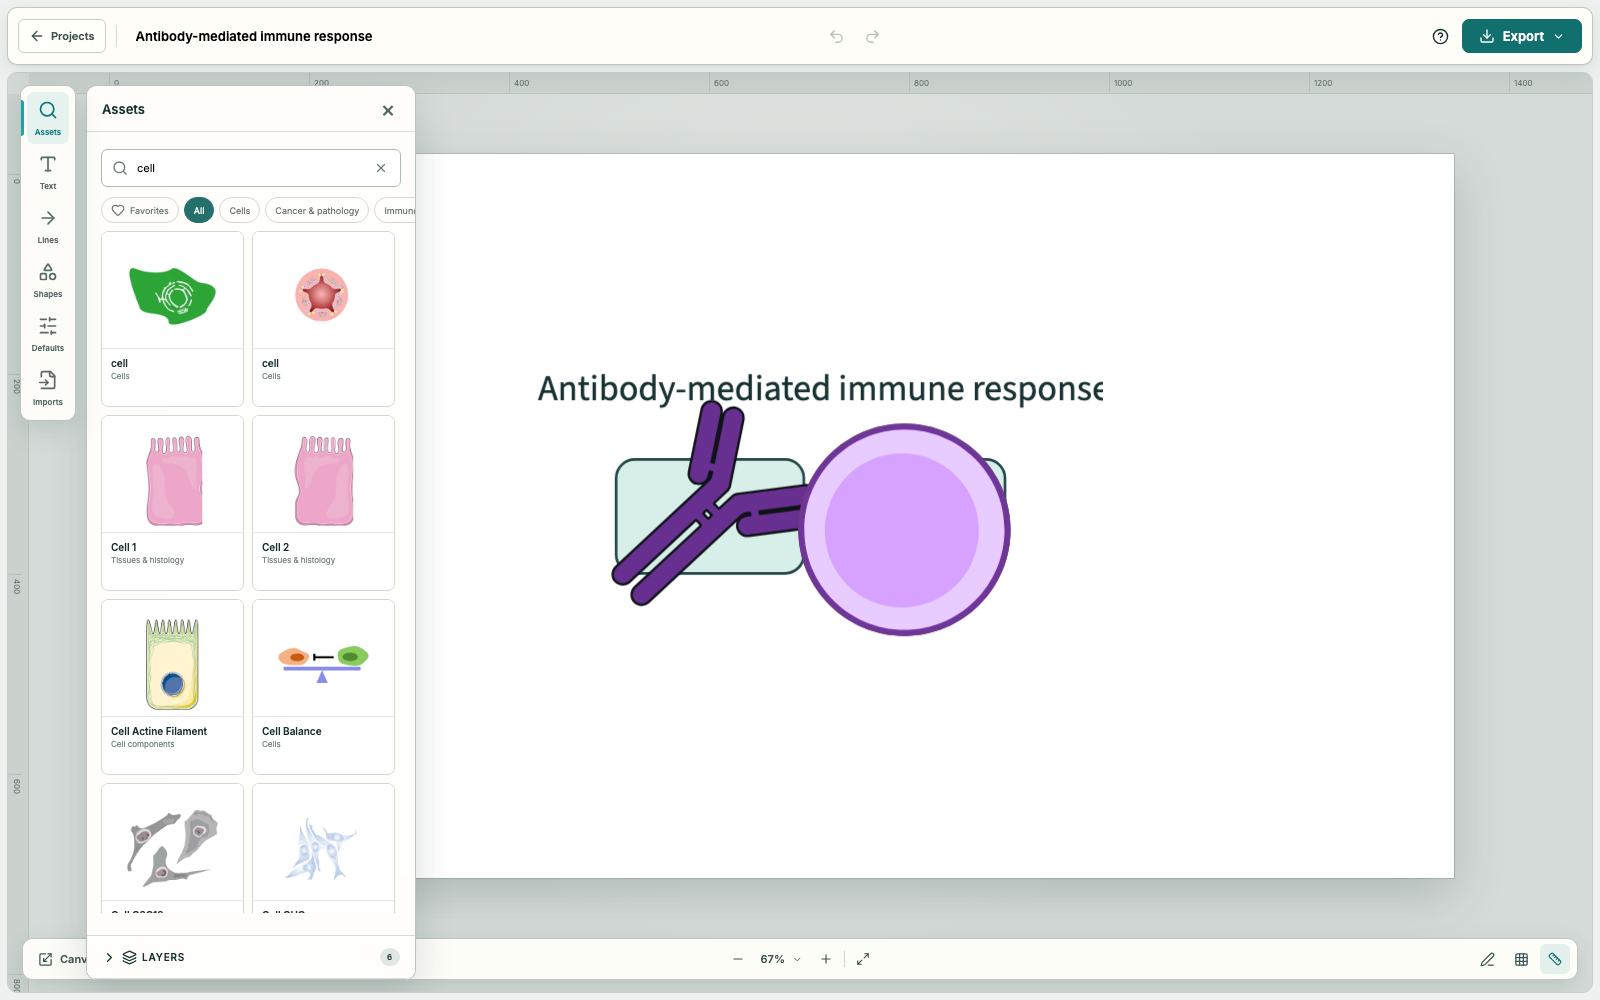
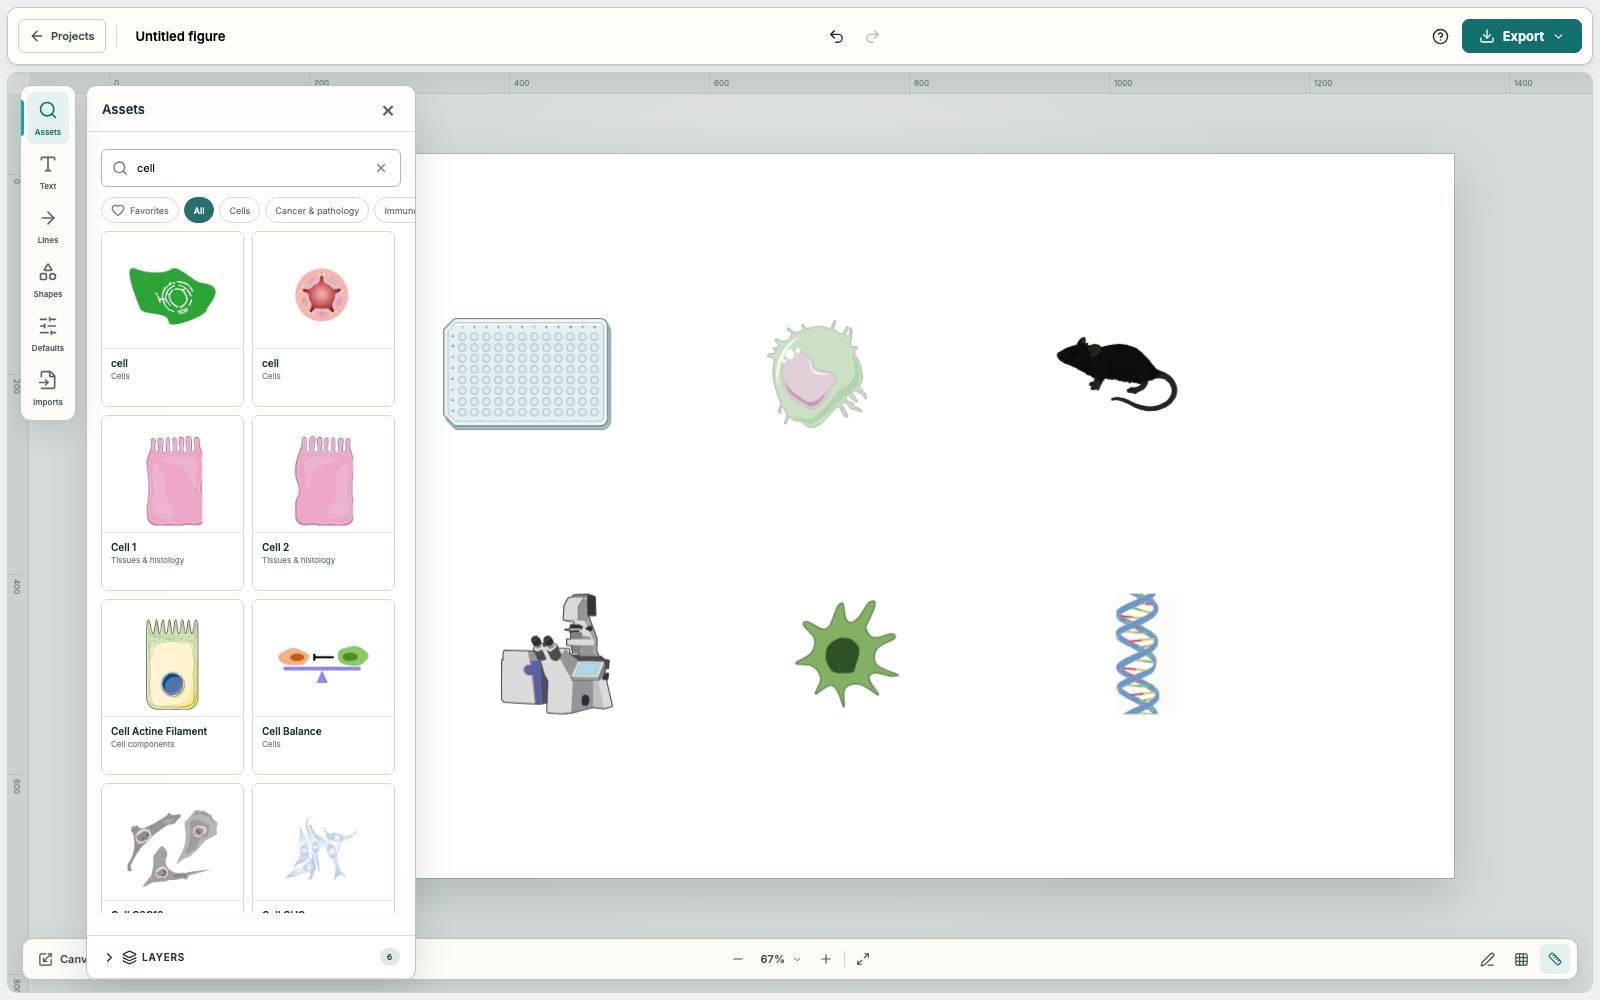
Replace README screenshots with asset showcase

Changed region(s): [[0.2812, 0.31, 0.75, 0.713], [0.6875, 0.589, 0.75, 0.713], [0.0938, 0.031, 0.2188, 0.062]]

diff --git a/scripts/docs/capture-readme-screenshots.py b/scripts/docs/capture-readme-screenshots.py
@@ -5,8 +5,28 @@ from playwright.sync_api import sync_playwright
 
 ROOT = Path(__file__).resolve().parents[2]
 OUTPUT = ROOT / "docs" / "images"
-EXAMPLE = ROOT / "examples" / "antibody-mediated-immune-response.OpenSketch"
 APP_URL = "http://127.0.0.1:5173/OpenSketch/"
+
+
+SHOWCASE_ASSETS = (
+    ("96 Well Plate Top View", 360, 220),
+    ("Macrophage", 650, 220),
+    ("Lab Mouse", 950, 220),
+    ("Confocal Microscope", 390, 500),
+    ("Dendritic Cell", 680, 500),
+    ("DNA Double Helix", 980, 500),
+)
+
+
+def add_asset(page, title: str, x: int, y: int) -> None:
+    search = page.get_by_placeholder("Search cells, proteins, equipment…")
+    search.fill(title)
+    insert = page.get_by_role("button", name=f"Insert {title}", exact=True).first
+    insert.wait_for()
+    card = insert.locator("xpath=ancestor::article")
+    card.locator('[data-preview-ready="true"]').wait_for()
+    card.drag_to(page.locator(".artboard-stage"), target_position={"x": x, "y": y})
+    page.wait_for_timeout(500)
 
 
 def capture() -> None:
@@ -24,12 +44,14 @@ def capture() -> None:
         page.on("pageerror", lambda error: errors.append(str(error)))
         page.goto(APP_URL, wait_until="networkidle")
 
-        with page.expect_file_chooser() as chooser:
-            page.get_by_role("button", name="Import project").click()
-        chooser.value.set_files(str(EXAMPLE))
+        page.get_by_role("button", name="New figure", exact=True).click()
         page.locator('.workspace-plane[data-canvas-ready="true"]').wait_for()
-        page.wait_for_timeout(1_000)
+
+        for title, x, y in SHOWCASE_ASSETS:
+            add_asset(page, title, x, y)
+
         page.get_by_role("button", name="Close panel").click()
+        page.locator(".artboard-stage").click(position={"x": 1_150, "y": 680})
         page.wait_for_timeout(250)
         page.screenshot(path=OUTPUT / "editor.png", animations="disabled")
 
